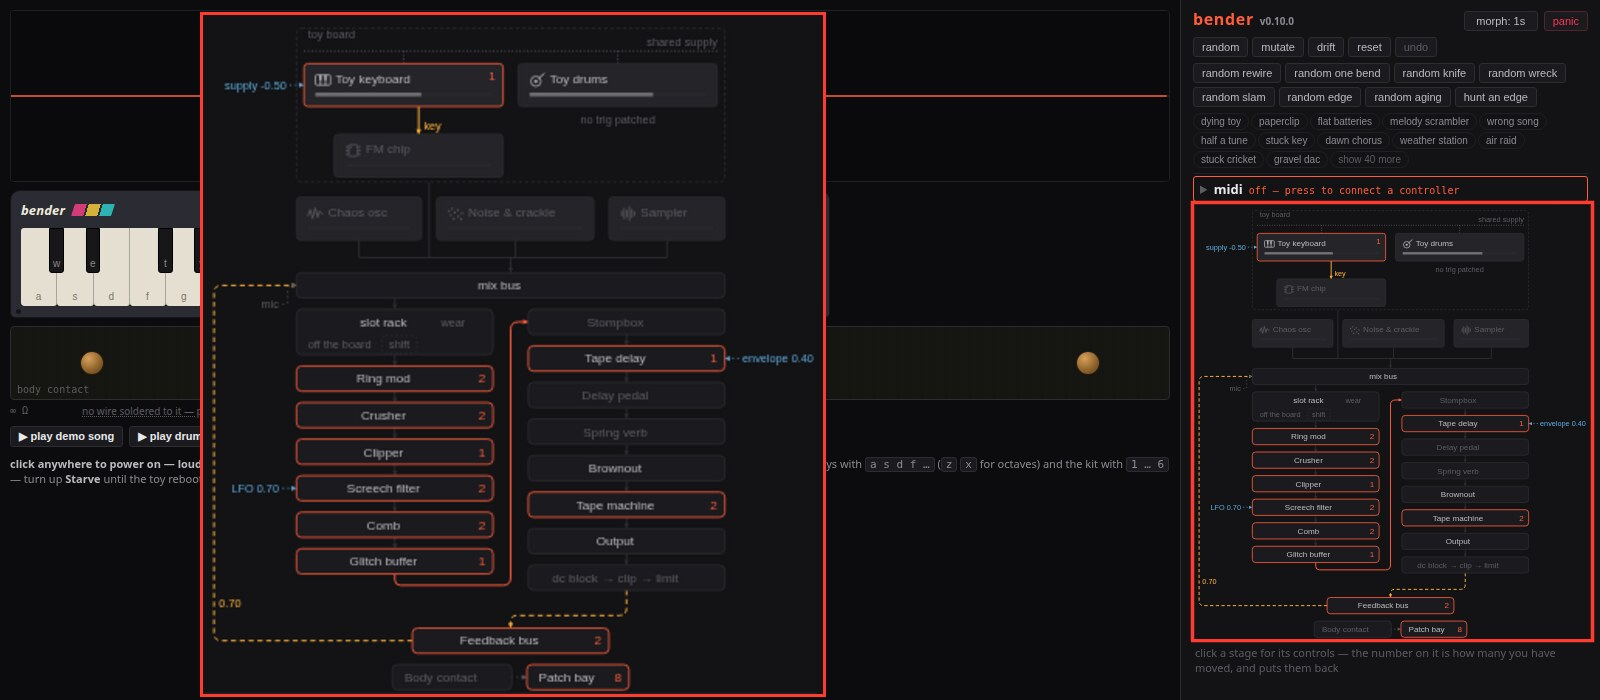
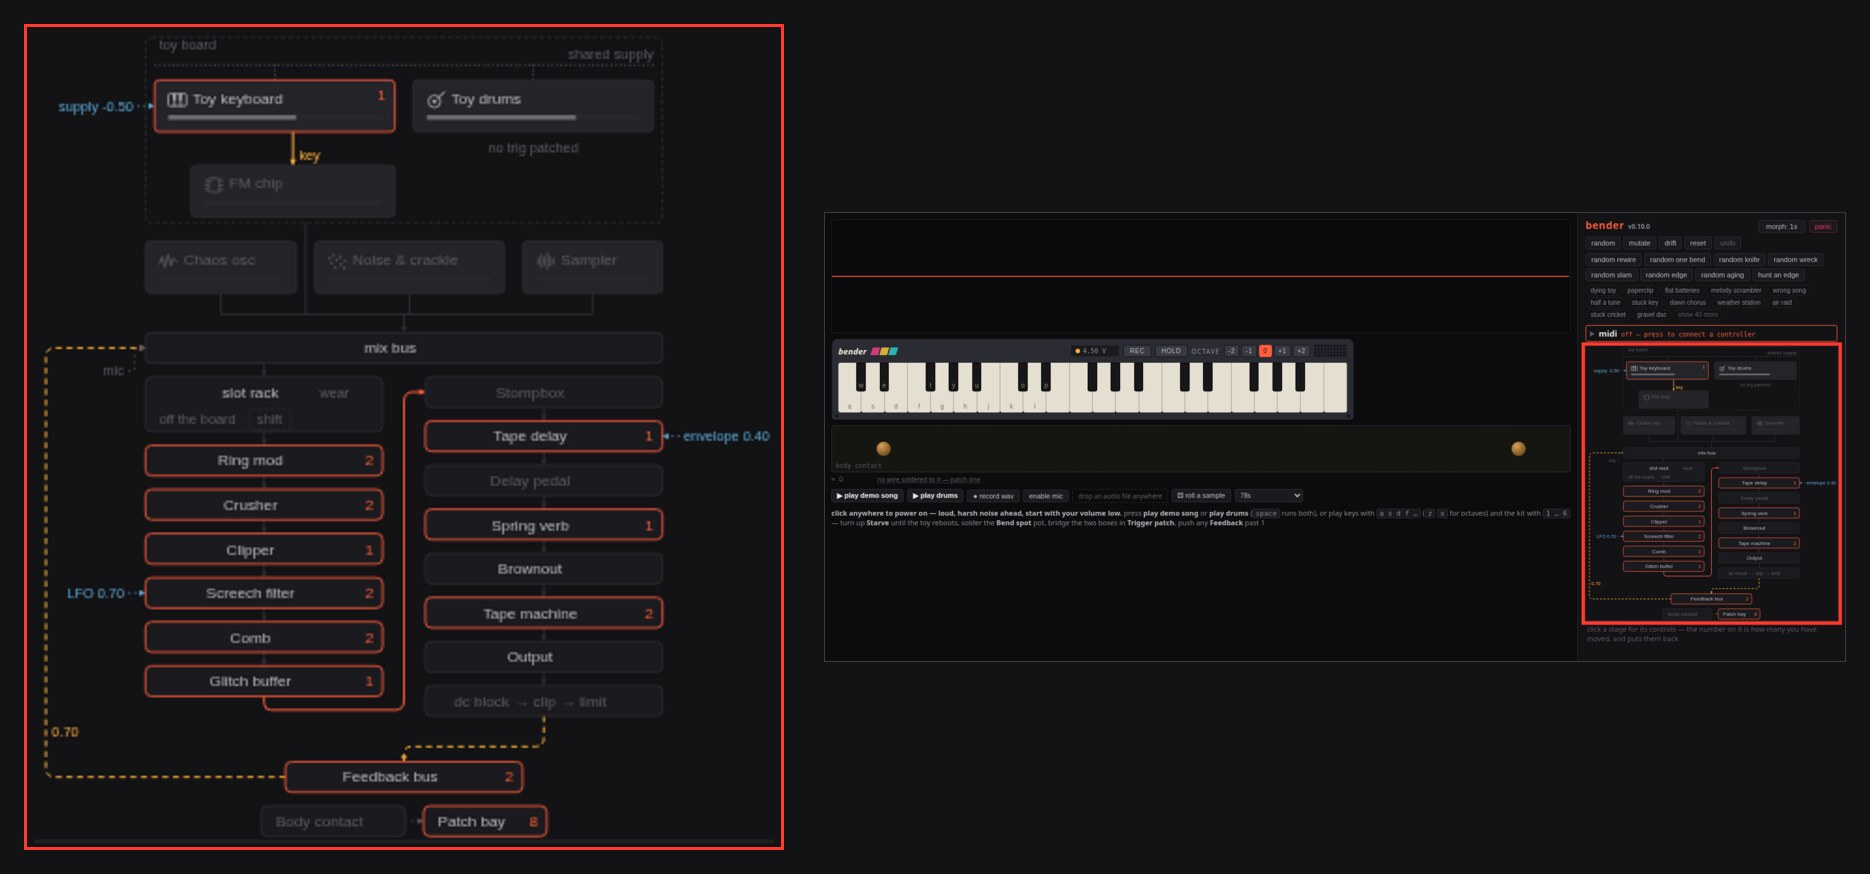
Shoot the README's picture with a script, and put the panel beside the app
Claude-Session: https://claude.ai/code/session_01SCicMx1cWntLdcej1pcmrN

diff --git a/scripts/figure.ts b/scripts/figure.ts
@@ -1,0 +1,293 @@
+import { execFileSync, spawn } from 'node:child_process'
+import { mkdtempSync, rmSync, writeFileSync } from 'node:fs'
+import { tmpdir } from 'node:os'
+import { join } from 'node:path'
+import { DEFAULT_CONTROLS, type Controls } from '../src/controls'
+import { encodeControls } from '../src/ui/share'
+
+// The README's one picture: the panel drawn big on the left, and the whole app
+// beside it with the panel ringed in red where it actually sits. `pnpm figure`
+// rewrites docs/img/panel-callout.jpg from the app as it is now, so the shot
+// never drifts from the board — no hand-cropping to redo.
+//
+// It drives a headless Chrome over the devtools protocol rather than a browser
+// library, so the repo owes nothing to a 300 MB dependency for one image, and
+// it asks the page where the panel is instead of carrying pixel coordinates
+// that a layout change would quietly invalidate.
+//
+// Wants `google-chrome` (or `chromium`) and ImageMagick's `magick` on PATH.
+
+const OUT = 'docs/img/panel-callout.jpg'
+const PORT = 5199
+const VIEW = { width: 1600, height: 900 }
+
+const PAD = 24
+const GAP = 40
+const PANEL_H = 820
+const APP_W = 1020
+const BG = '#131316'
+const RING = '#ff3b30'
+
+// A board with something on it. Stock, the panel is a column of grey boxes and
+// the picture says nothing about what the app does, so this patches bends,
+// pedals, the tape and three wires of the bay — the drawing then carries move
+// counts, wire depths and the feedback loop, which is the reason for the shot.
+const BOARD: Controls = {
+  ...DEFAULT_CONTROLS,
+  chipStarve: 0.5,
+  ringMix: 0.6,
+  ringHz: 120,
+  crushMix: 0.5,
+  bits: 5,
+  filtMix: 0.7,
+  filtHz: 800,
+  filtRes: 0.6,
+  glitchMix: 0.4,
+  glitchProb: 0.3,
+  combMix: 0.5,
+  combHz: 220,
+  driveDb: 12,
+  distMix: 0.8,
+  dlyMix: 0.4,
+  revMix: 0.35,
+  tapeMix: 0.6,
+  tapeWow: 0.3,
+  fbAmt: 0.7,
+  fbDelayMs: 40,
+  mod0Src: 1,
+  mod0Dest: 0,
+  mod0Depth: 0.7,
+  mod1Src: 2,
+  mod1Dest: 13,
+  mod1Depth: -0.5,
+  mod2Src: 3,
+  mod2Dest: 6,
+  mod2Depth: 0.4,
+}
+
+const sleep = (ms: number) => new Promise(r => setTimeout(r, ms))
+
+function which(cmd: string) {
+  try {
+    return execFileSync('which', [cmd]).toString().trim()
+  } catch {
+    return ''
+  }
+}
+
+function chromePath() {
+  const found = [
+    process.env.BENDER_CHROME,
+    'google-chrome',
+    'chromium',
+    'chromium-browser',
+  ].find(c => c && (c.includes('/') ? true : which(c)))
+  if (!found) throw new Error('no chrome on PATH — set BENDER_CHROME')
+  return found
+}
+
+async function serve() {
+  const vite = spawn(
+    'node_modules/.bin/vite',
+    ['--port', String(PORT), '--strictPort'],
+    { stdio: ['ignore', 'pipe', 'inherit'] },
+  )
+  const url = await new Promise<string>((resolve, reject) => {
+    let out = ''
+    const die = setTimeout(() => reject(new Error('vite never started')), 30000)
+    vite.stdout.on('data', (d: Buffer) => {
+      out += d.toString()
+      const hit = out.match(/(http:\/\/localhost:\d+\/\S*)/)?.[1]
+      if (hit) {
+        clearTimeout(die)
+        resolve(hit.replace(/\x1b\[[0-9;]*m/g, ''))
+      }
+    })
+  })
+  return { url, stop: () => vite.kill() }
+}
+
+// Enough of the devtools protocol to open a page, ask it a question and take
+// its picture.
+async function attach(port: number) {
+  let list: { webSocketDebuggerUrl: string }[] = []
+  for (let i = 0; i < 100 && !list.length; i++) {
+    try {
+      list = (
+        await (await fetch(`http://127.0.0.1:${port}/json/list`)).json()
+      ).filter((t: { type: string }) => t.type === 'page')
+    } catch {
+      await sleep(100)
+    }
+  }
+  const first = list[0]
+  if (!first) throw new Error('chrome never opened a page')
+
+  const ws = new WebSocket(first.webSocketDebuggerUrl)
+  await new Promise(r => ws.addEventListener('open', r, { once: true }))
+  const waiting = new Map<number, (v: unknown) => void>()
+  let id = 0
+  ws.addEventListener('message', e => {
+    const msg = JSON.parse(String(e.data))
+    waiting.get(msg.id)?.(msg.result)
+    waiting.delete(msg.id)
+  })
+  const send = <T>(method: string, params: object = {}) =>
+    new Promise<T>(resolve => {
+      const at = ++id
+      waiting.set(at, resolve as (v: unknown) => void)
+      ws.send(JSON.stringify({ id: at, method, params }))
+    })
+  return { send, close: () => ws.close() }
+}
+
+async function shoot(url: string, into: string) {
+  const dir = mkdtempSync(join(tmpdir(), 'bender-figure-'))
+  const chrome = spawn(
+    chromePath(),
+    [
+      '--headless',
+      '--disable-gpu',
+      '--hide-scrollbars',
+      `--window-size=${VIEW.width},${VIEW.height}`,
+      '--remote-debugging-port=9333',
+      `--user-data-dir=${dir}`,
+      url,
+    ],
+    { stdio: 'ignore' },
+  )
+  try {
+    const page = await attach(9333)
+    await page.send('Page.enable')
+    await sleep(3000)
+
+    const { result } = await page.send<{ result: { value: string } }>(
+      'Runtime.evaluate',
+      {
+        expression: `JSON.stringify((() => {
+        const el = document.querySelector('[class*="graph"]')
+        if (!el) throw new Error('no panel on the page')
+        const r = el.getBoundingClientRect()
+        return { x: r.x, y: r.y, width: r.width, height: r.height }
+      })())`,
+      },
+    )
+    const rect = JSON.parse(result.value) as {
+      x: number
+      y: number
+      width: number
+      height: number
+    }
+
+    const shot = await page.send<{ data: string }>('Page.captureScreenshot', {
+      format: 'png',
+    })
+    writeFileSync(into, Buffer.from(shot.data, 'base64'))
+    page.close()
+    return rect
+  } finally {
+    chrome.kill()
+    rmSync(dir, { recursive: true, force: true })
+  }
+}
+
+const magick = (args: string[]) => execFileSync('magick', args)
+
+async function main() {
+  if (!which('magick')) throw new Error('no imagemagick on PATH')
+
+  const { url, stop } = await serve()
+  const work = mkdtempSync(join(tmpdir(), 'bender-figure-out-'))
+  const shot = join(work, 'shot.png')
+  const panel = join(work, 'panel.png')
+  const app = join(work, 'app.png')
+
+  try {
+    const rect = await shoot(`${url}#set=${encodeControls(BOARD)}`, shot)
+
+    // The box, a hair outside the drawing so the ring never lands on a wire.
+    const box = {
+      x: Math.round(rect.x) - 4,
+      y: Math.round(rect.y) - 4,
+      w: Math.round(rect.width) + 8,
+      h: Math.round(rect.height) + 8,
+    }
+    // The empty half-screen under the keyboard is not worth the pixels; the
+    // caption under the panel is, so the crop stops just below it.
+    const appH = Math.min(VIEW.height, box.y + box.h + 60)
+
+    magick([
+      shot,
+      '-crop',
+      `${box.w}x${box.h}+${box.x}+${box.y}`,
+      '+repage',
+      '-resize',
+      `x${PANEL_H}`,
+      '-bordercolor',
+      RING,
+      '-border',
+      '3',
+      panel,
+    ])
+    magick([
+      shot,
+      '-crop',
+      `${VIEW.width}x${appH}+0+0`,
+      '+repage',
+      '-fill',
+      'none',
+      '-stroke',
+      RING,
+      '-strokewidth',
+      '5',
+      '-draw',
+      `rectangle ${box.x},${box.y} ${box.x + box.w},${box.y + box.h}`,
+      '-resize',
+      `${APP_W}x`,
+      '-bordercolor',
+      '#3a3a40',
+      '-border',
+      '1',
+      app,
+    ])
+
+    const size = (f: string) => {
+      const [w = 0, h = 0] = execFileSync('magick', [
+        'identify',
+        '-format',
+        '%w %h',
+        f,
+      ])
+        .toString()
+        .split(' ')
+        .map(Number)
+      return { w, h }
+    }
+    const { w: pw, h: ph } = size(panel)
+    const { w: aw, h: ah } = size(app)
+    const canvas = { w: PAD * 2 + pw + GAP + aw, h: PAD * 2 + ph }
+
+    magick([
+      '-size',
+      `${canvas.w}x${canvas.h}`,
+      `xc:${BG}`,
+      panel,
+      '-geometry',
+      `+${PAD}+${PAD}`,
+      '-composite',
+      app,
+      '-geometry',
+      `+${PAD + pw + GAP}+${Math.round((canvas.h - ah) / 2)}`,
+      '-composite',
+      '-quality',
+      '88',
+      OUT,
+    ])
+    console.log(`${OUT} — ${canvas.w}x${canvas.h}`)
+  } finally {
+    stop()
+    rmSync(work, { recursive: true, force: true })
+  }
+}
+
+await main()

diff --git a/scripts/features.ts b/scripts/features.ts
@@ -95,6 +95,7 @@ const SCRIPTS: Record<string, string> = {
   soak: 'whether any stage gets slower the longer it runs',
   diagram: "re-renders the README's signal path",
   features: 'rewrites docs/features.md — this file',
+  figure: "re-shoots the README's screenshot of the app and its panel",
   knife:
     'sweeps every wire and fault on all five buses and reports which you can hear',
   preview: 'serves the built bundle',

diff --git a/docs/features.md b/docs/features.md
@@ -952,7 +952,7 @@ on it — a link never presses play, so it is loaded and waiting.
 ## Scripts
 
 <details>
-<summary>18 commands</summary>
+<summary>19 commands</summary>
 
 | command          | what it does                                                                                        |
 | ---------------- | --------------------------------------------------------------------------------------------------- |
@@ -964,6 +964,7 @@ on it — a link never presses play, so it is loaded and waiting.
 | `pnpm cold`      | the first seconds, before anything has tiered up                                                    |
 | `pnpm diagram`   | re-renders the README's signal path                                                                 |
 | `pnpm features`  | rewrites docs/features.md — this file                                                               |
+| `pnpm figure`    | re-shoots the README's screenshot of the app and its panel                                          |
 | `pnpm knife`     | sweeps every wire and fault on all five buses and reports which you can hear                        |
 | `pnpm soak`      | whether any stage gets slower the longer it runs                                                    |
 | `pnpm preview`   | serves the built bundle                                                                             |

diff --git a/README.md b/README.md
@@ -19,7 +19,7 @@ Real-time in the browser, on one AudioWorklet.
 The panel is a live drawing of this chain: click a box to open its controls, and
 the drawing itself changes as you patch the board.
 
-![The app window with the panel boxed in red down the right-hand side and enlarged over the picture: the toy board and its shared supply at the top, the chaos oscillator, noise and sampler feeding the mix bus, the six bend slots beside the pedals and the tape machine, patch wires labelled with their depths arching in from the LFO and the envelope, and the feedback bus running back under the whole run](docs/img/panel-callout.jpg)
+![The panel drawn large on the left and the whole app beside it, with the panel ringed in red where it sits down the right-hand side of the window: the toy board and its shared supply at the top, the chaos oscillator, noise and sampler feeding the mix bus, the six bend slots beside the pedals and the tape machine, patch wires labelled with their depths arching in from the LFO and the envelope, and the feedback bus running back under the whole run](docs/img/panel-callout.jpg)
 
 Full explanation in [How it works](docs/HOW-IT-WORKS.md).
 

diff --git a/docs/DEVELOPMENT.md b/docs/DEVELOPMENT.md
@@ -48,6 +48,14 @@ the main and audio threads is [dataflow.md](dataflow.md).
 - `pnpm diagram` regenerates the signal path diagram (`img/chain-*.svg`) from
   the same layout code the panel draws with. Run it after any change to
   `src/ui/chain-map.ts`.
+- `pnpm figure` regenerates the README's screenshot
+  (`docs/img/panel-callout.jpg`): it starts the dev server, opens the app in a
+  headless Chrome on a board with the bends, the tape and three patch wires
+  turned on, and composes the panel enlarged beside the whole window with the
+  panel ringed in red. It asks the page where the panel is rather than carrying
+  crop coordinates, so a layout change moves the box on its own. Wants
+  `google-chrome` (or `chromium`, or `BENDER_CHROME`) and ImageMagick's `magick`
+  on PATH.
 - `pnpm features` regenerates [features.md](features.md) from the app's own
   control tables and tooltips. Run it after changing a control, a preset, or a
   ROM — a test fails the build if the committed file falls behind.
